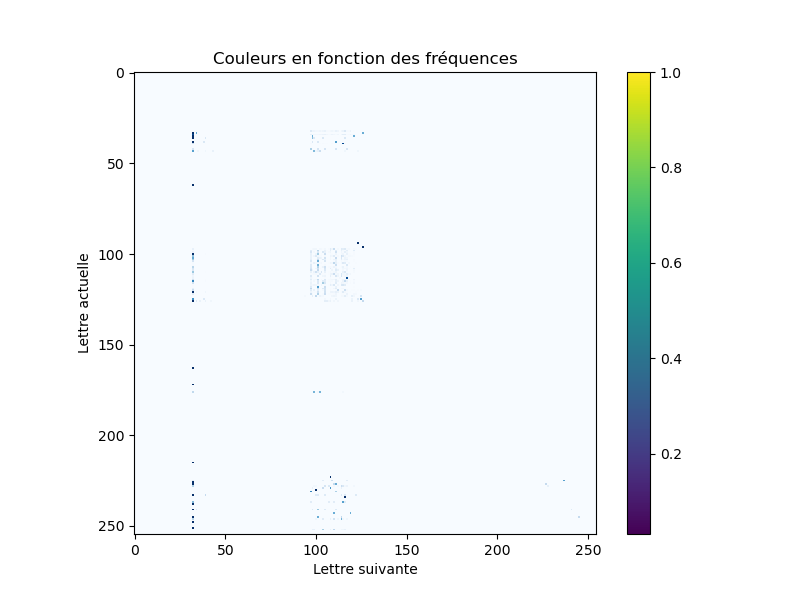
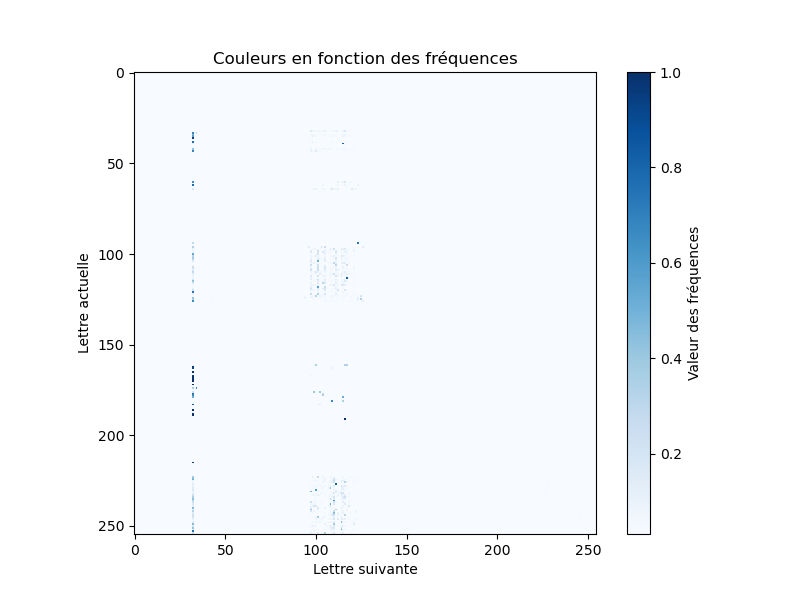
add blue verticale line

Changed region(s): [[0.7812, 0.12, 0.8125, 0.9], [0.8438, 0.39, 0.875, 0.63]]

diff --git a/visualization/matrix_visualization/matrix_visualization.py b/visualization/matrix_visualization/matrix_visualization.py
@@ -17,13 +17,15 @@ def matrix_visualiation(language):
     # Conversion des couleurs de l'espace HSV à RGB pour l'affichage
     colors_rgb = plt.get_cmap('Blues')(colors_hsv[:, :, 0])  # Utilisation uniquement de la teinte pour la colormap
 
-    # Affichage des couleurs représentant les fréquences
     plt.figure(figsize=(8, 6))
-    plt.imshow(colors_rgb, interpolation='nearest')
+    plt.imshow(colors_rgb, interpolation='nearest', cmap='Blues')
     plt.title('Couleurs en fonction des fréquences')
     plt.xlabel('Lettre suivante')
     plt.ylabel('Lettre actuelle')
-    plt.colorbar()  # Barre de couleur pour référence
+
+    cbar = plt.colorbar()
+    cbar.set_label("Valeur des fréquences")
+
     plt.show()
     plt.savefig(f'/home/onyxia/work/projet_python_ds/visualization/matrix_visualization/matrix_{language}.png')
 
